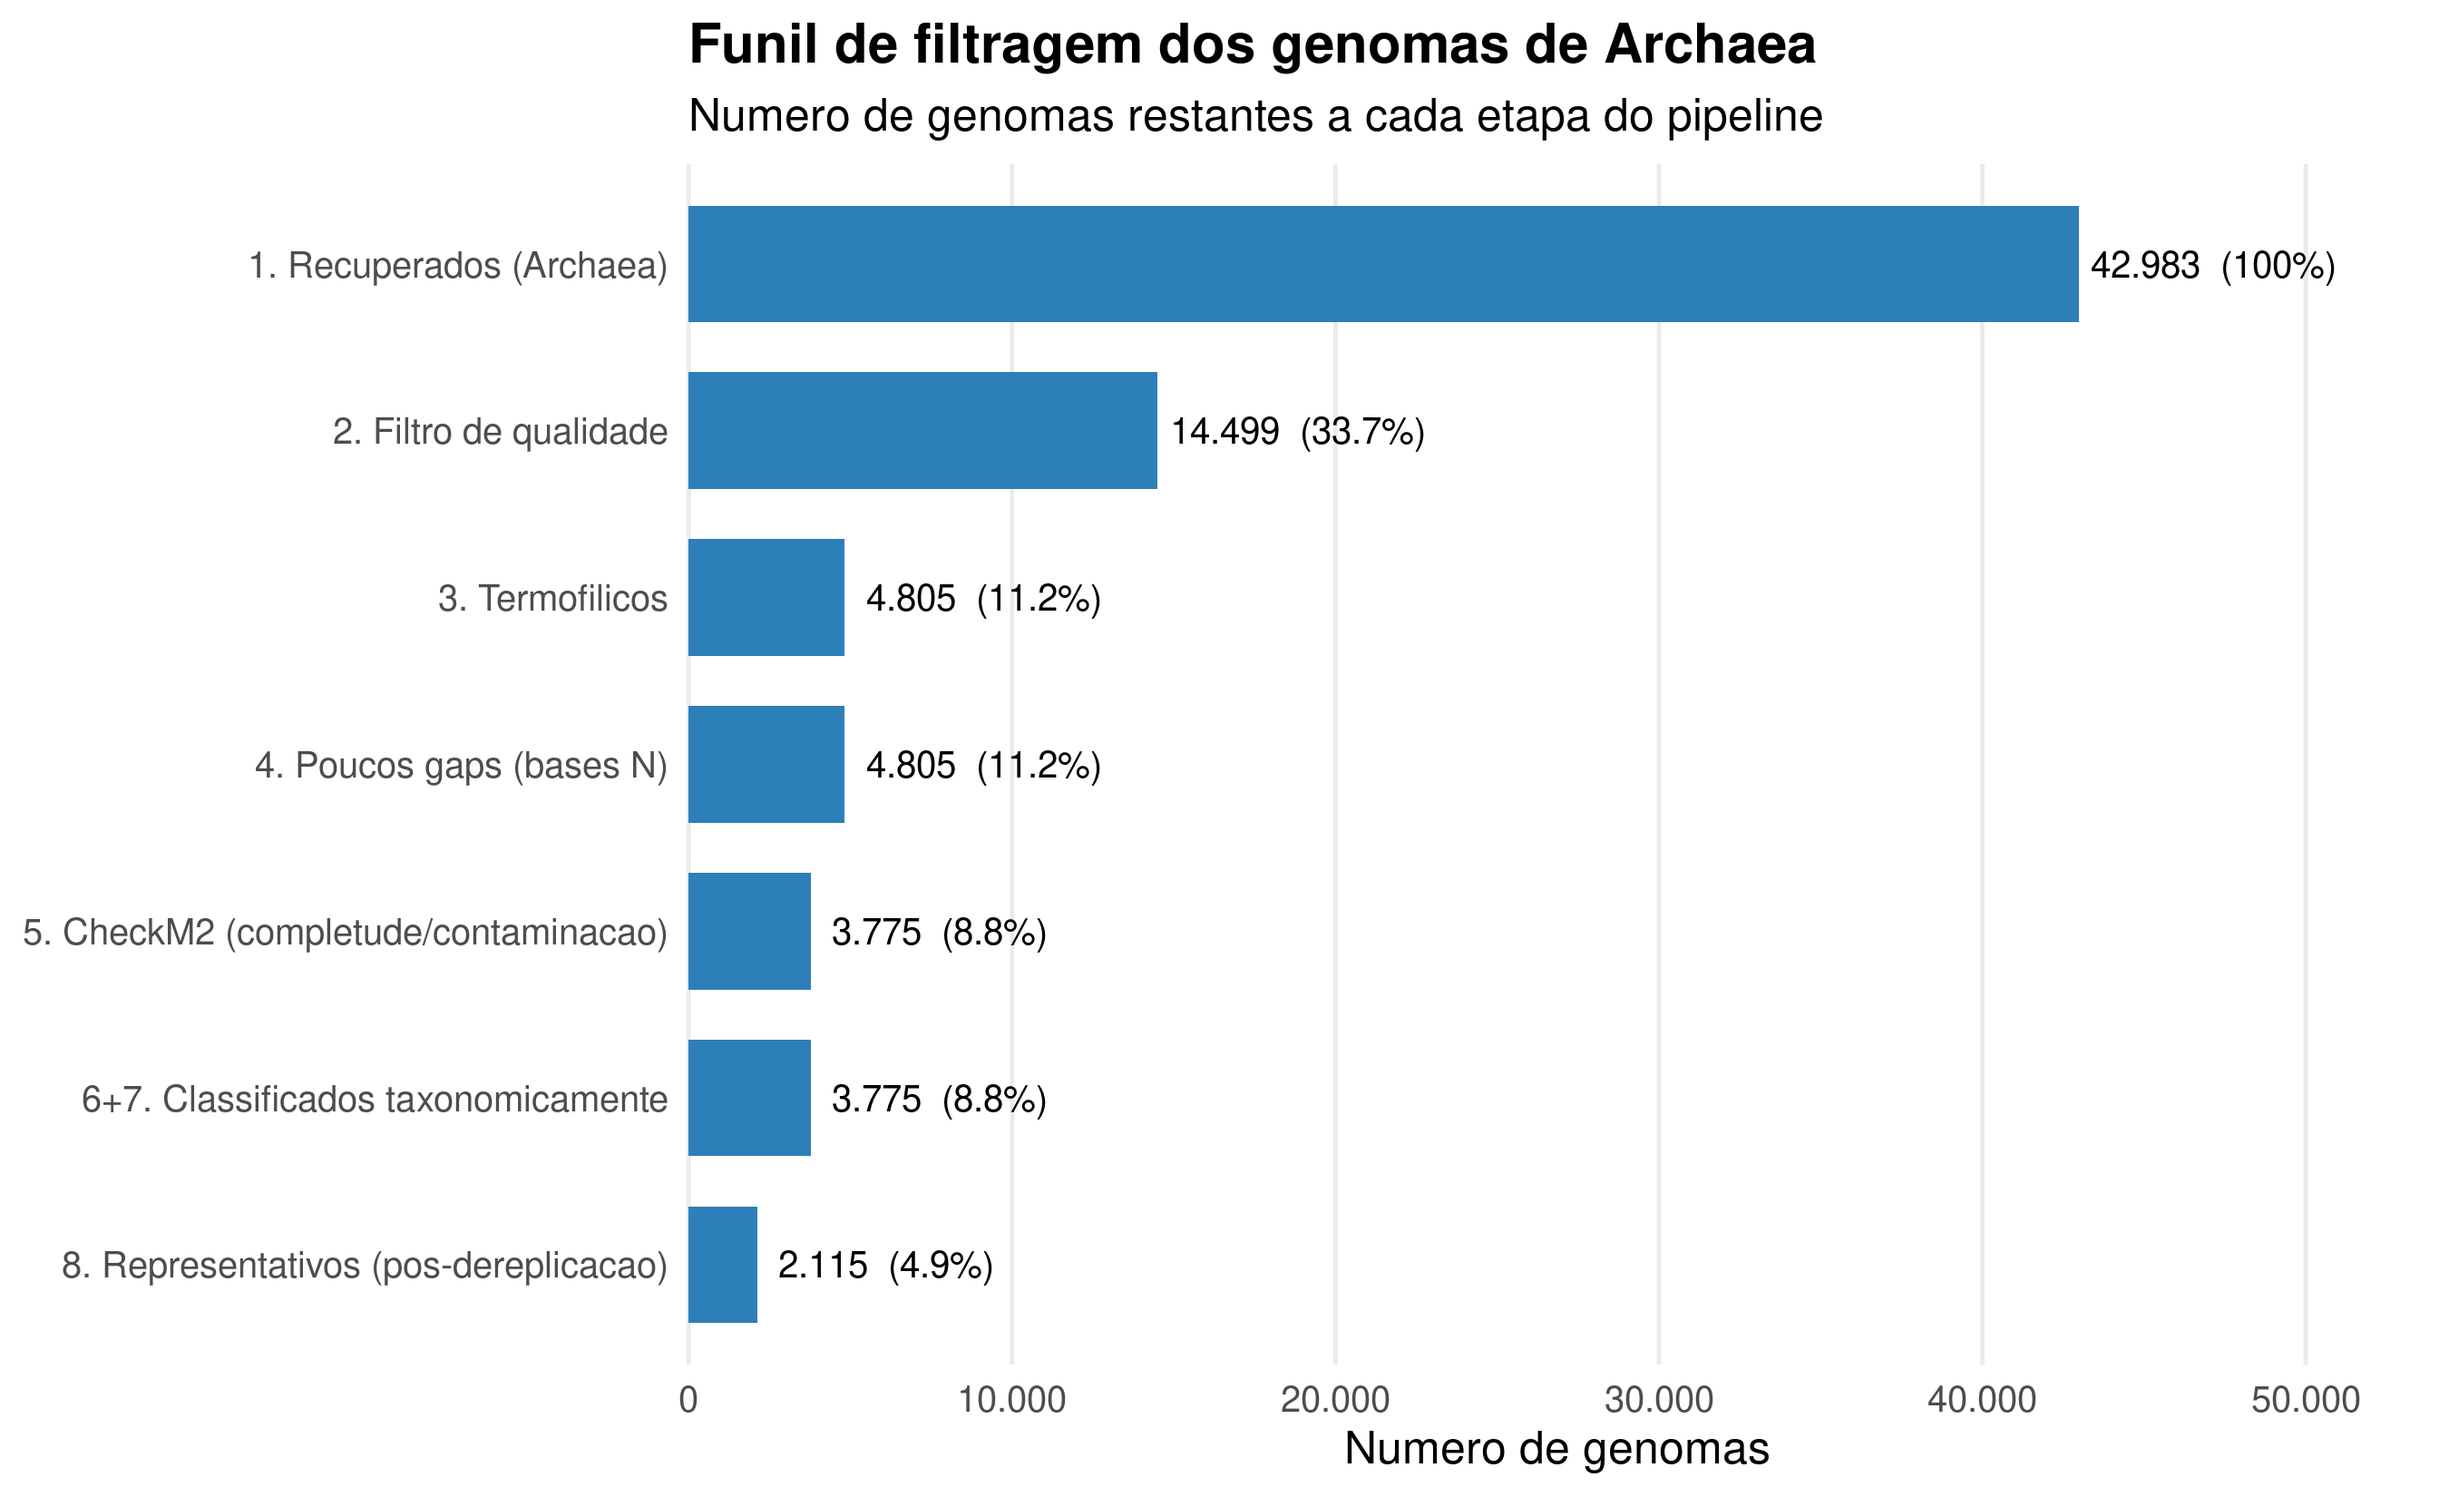
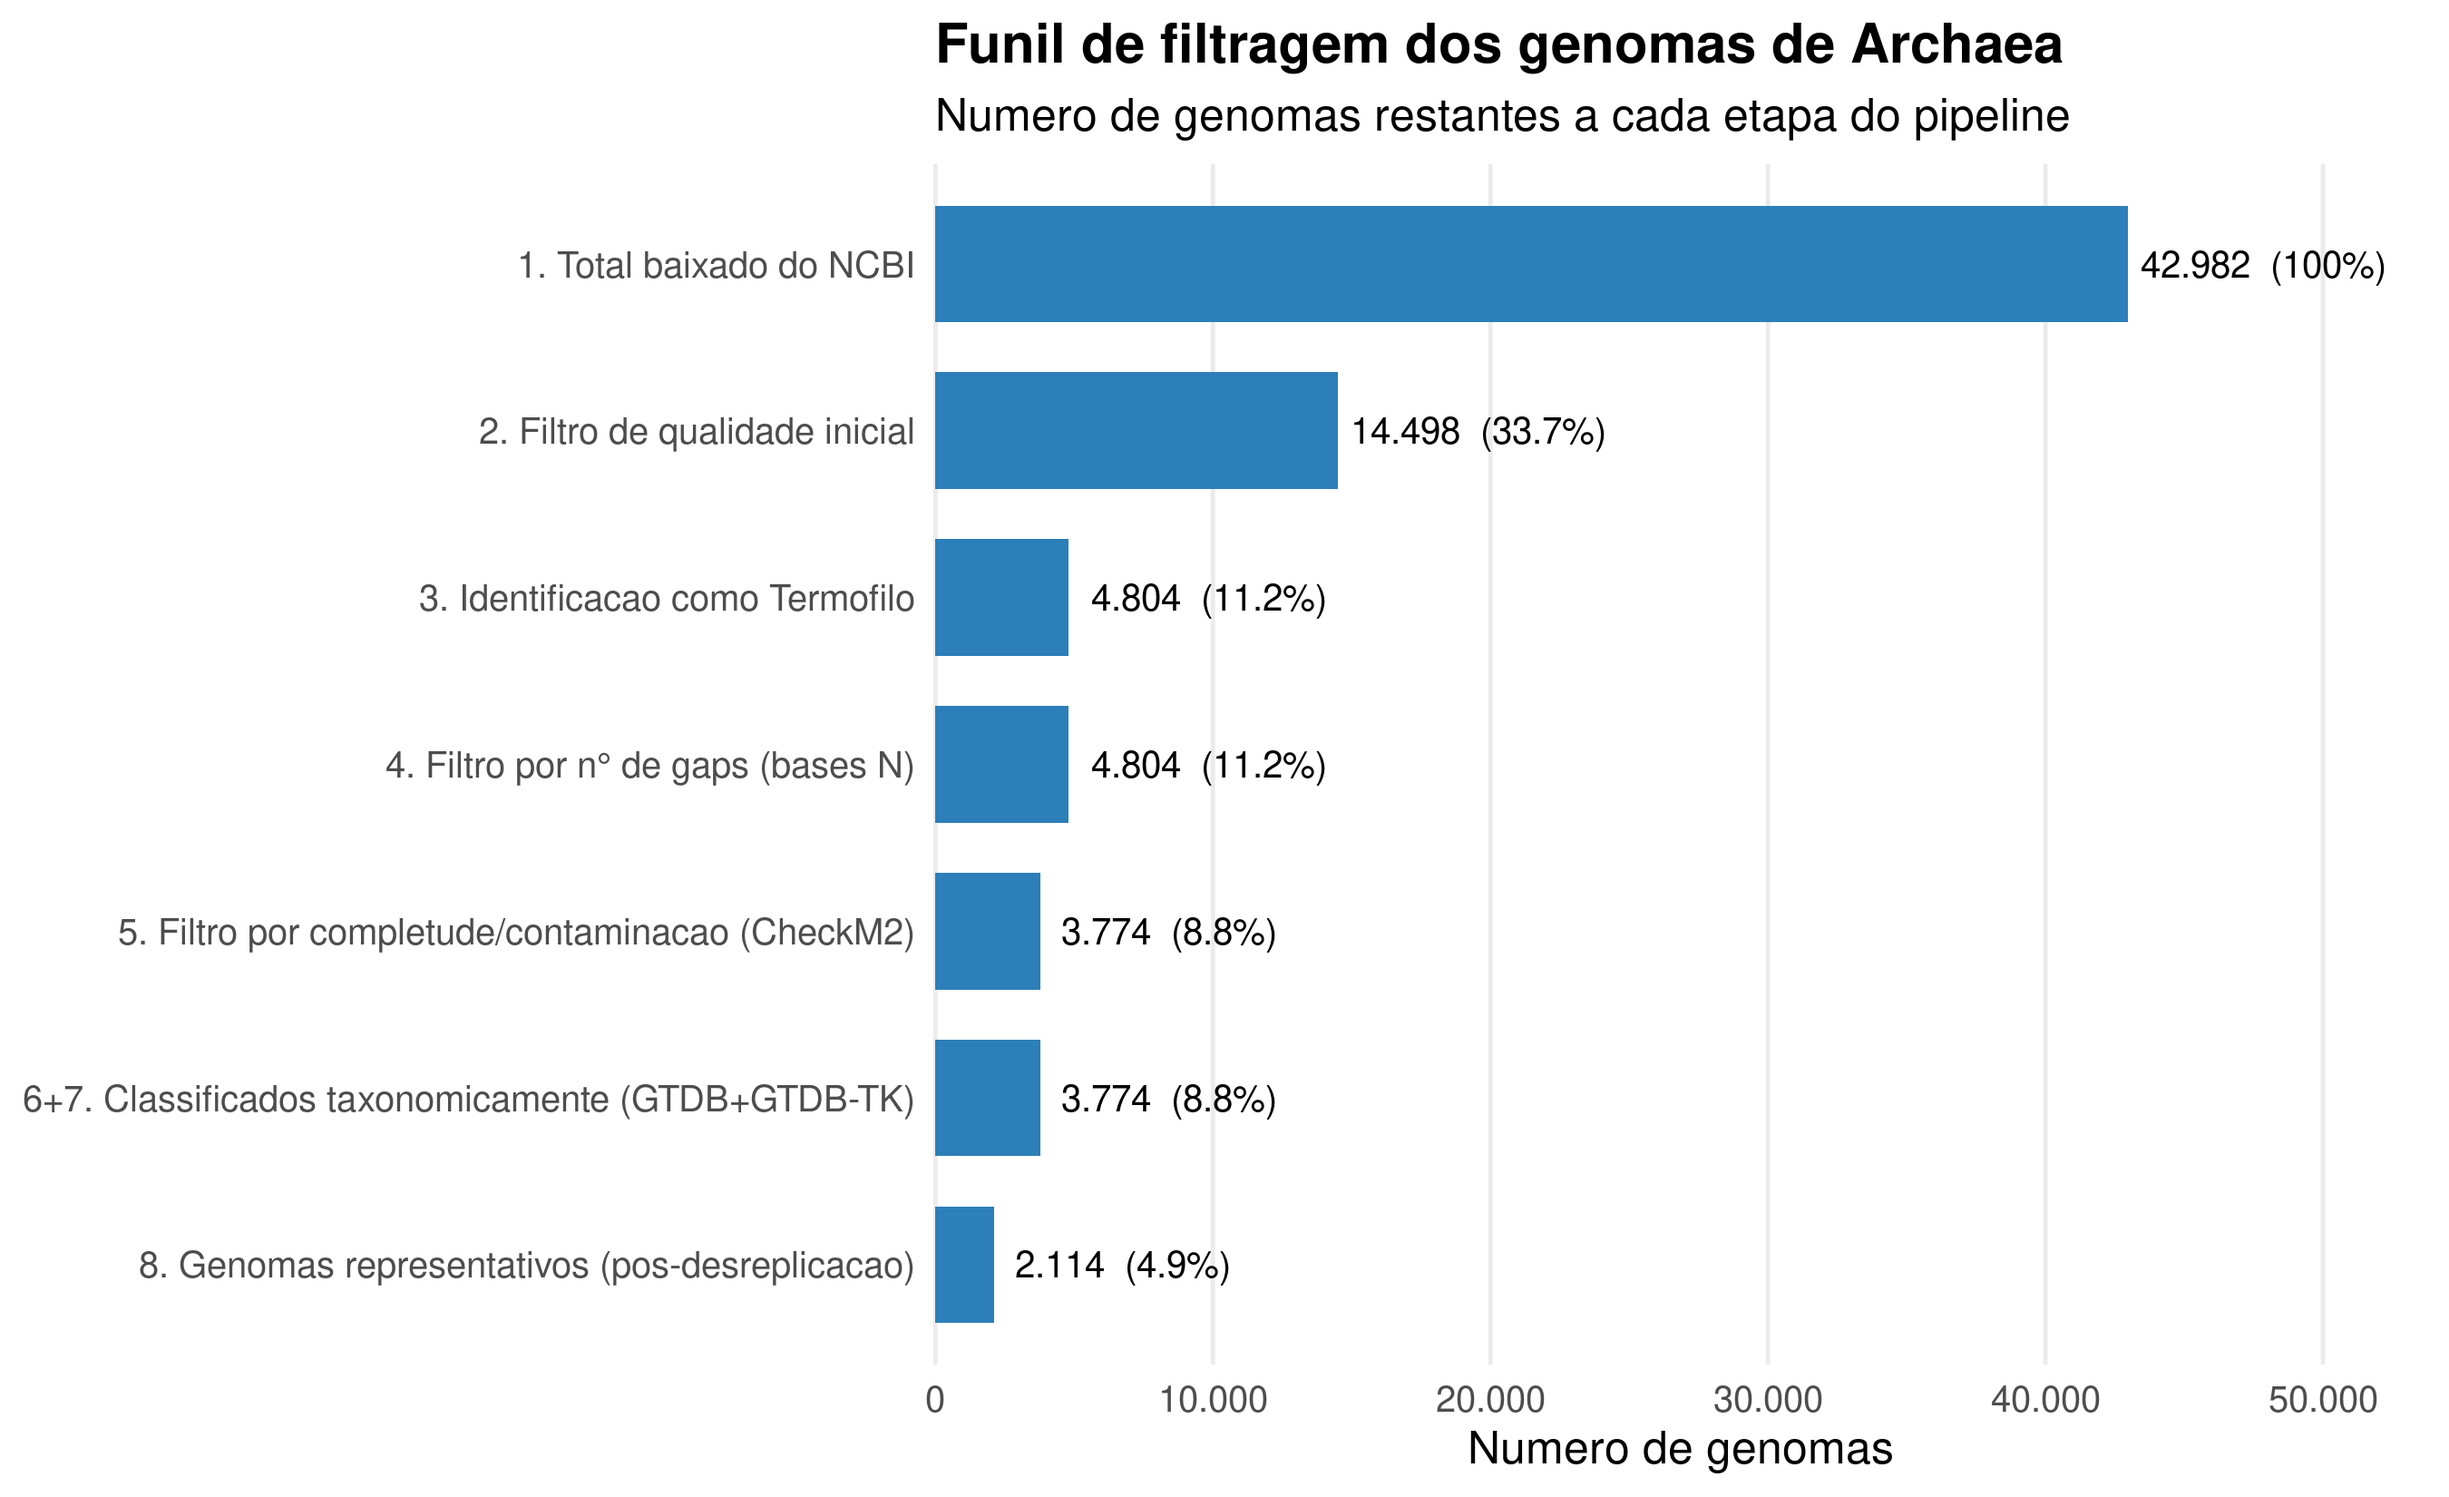
Created R script for generating tables and graphs

diff --git a/resultados-R/funil_filtragem.md b/resultados-R/funil_filtragem.md
@@ -1,9 +1,9 @@
 | Etapa | Genomas restantes | % do total | % da etapa anterior |
 |---|---|---|---|
-| 1. Recuperados (Archaea) | 42.983 | 100,0% | 100,0% |
-| 2. Filtro de qualidade | 14.499 | 33,7% | 33,7% |
-| 3. Termofilicos | 4.805 | 11,2% | 33,1% |
-| 4. Poucos gaps (bases N) | 4.805 | 11,2% | 100,0% |
-| 5. CheckM2 (completude/contaminacao) | 3.775 | 8,8% | 78,6% |
-| 6+7. Classificados taxonomicamente | 3.775 | 8,8% | 100,0% |
-| 8. Representativos (pos-dereplicacao) | 2.115 | 4,9% | 56,0% |
+| 1. Total baixado do NCBI | 42.982 | 100,0% | 100,0% |
+| 2. Filtro de qualidade inicial | 14.498 | 33,7% | 33,7% |
+| 3. Identificacao como Termofilo | 4.804 | 11,2% | 33,1% |
+| 4. Filtro por n° de gaps (bases N) | 4.804 | 11,2% | 100,0% |
+| 5. Filtro por completude/contaminacao (CheckM2) | 3.774 | 8,8% | 78,6% |
+| 6+7. Classificados taxonomicamente (GTDB+GTDB-TK) | 3.774 | 8,8% | 100,0% |
+| 8. Genomas representativos (pos-desreplicacao) | 2.114 | 4,9% | 56,0% |
